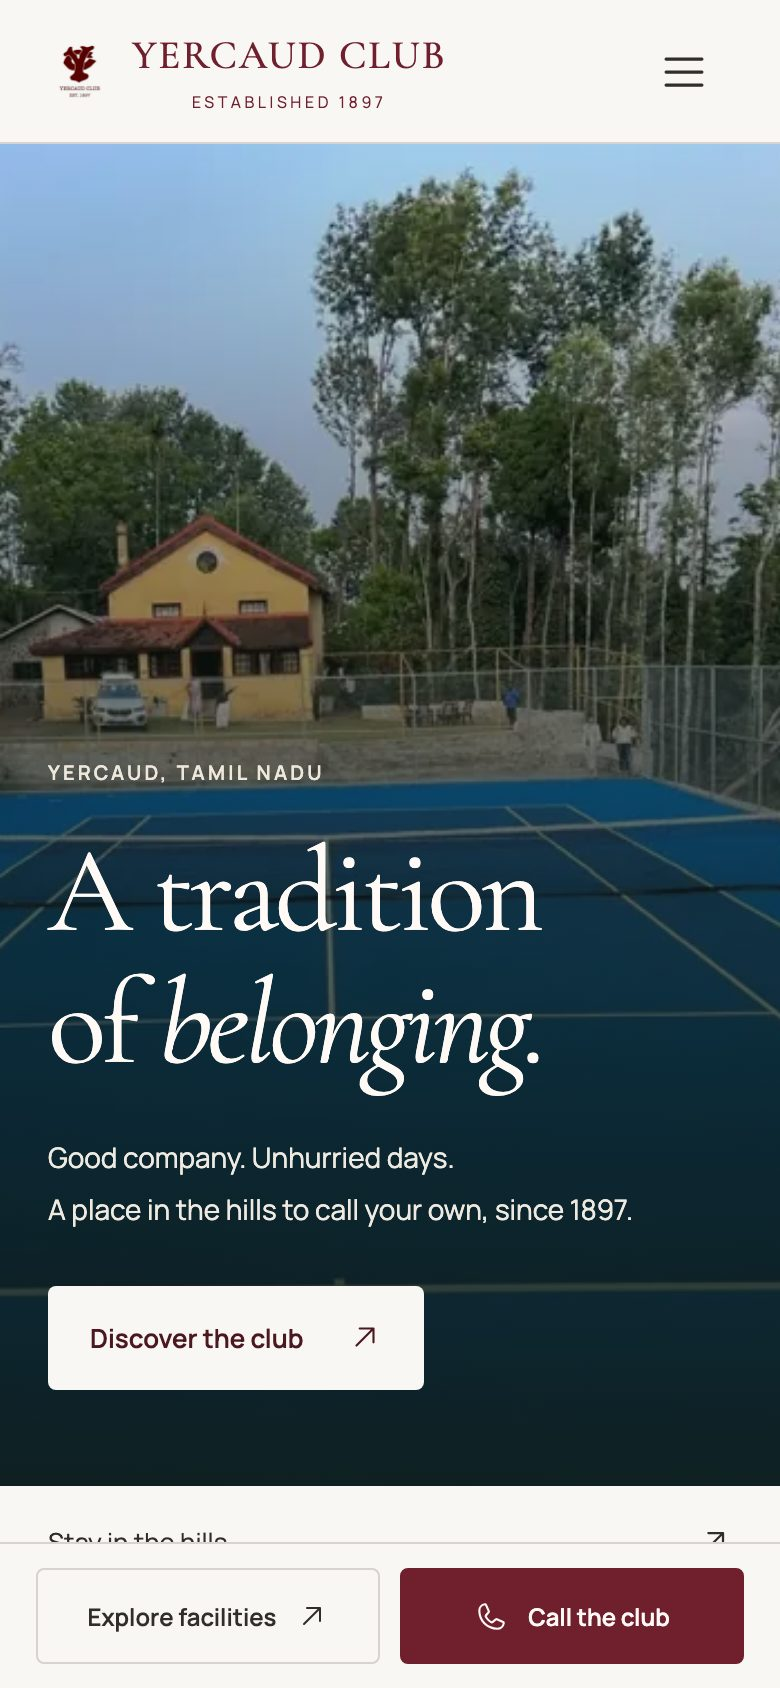
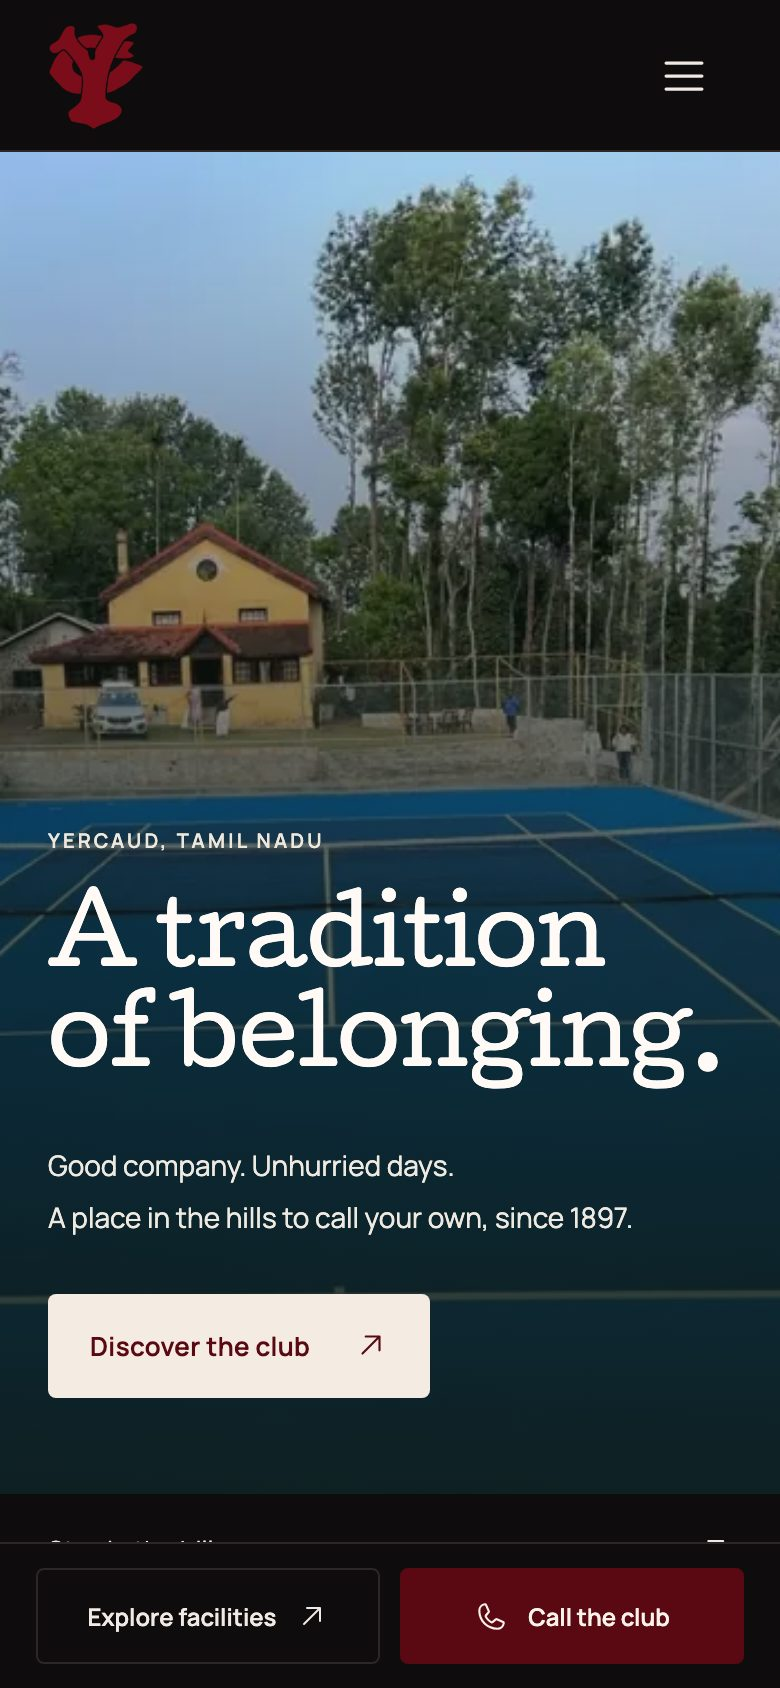
Yercaud Club case study: live domain, red-on-black palette, Cutive type, client review rounds

diff --git a/data/websites.ts b/data/websites.ts
@@ -28,39 +28,40 @@ export const websites: Website[] = [
     kind: 'Heritage members’ club',
     location: 'Yercaud, Tamil Nadu',
     year: '2026',
-    url: 'https://thecozycod3r.github.io/yercaud-club/',
-    urlLabel: 'thecozycod3r.github.io/yercaud-club',
+    url: 'https://yercaudclub.com/',
+    urlLabel: 'yercaudclub.com',
     role: 'Design, build and research',
     summary:
-      'A hill club founded in 1897, with no website of its own. Rebuilt from a tariff card, a souvenir booklet and the club’s own photographs into a four-page site for members, affiliates and guests.',
+      'A hill club founded in 1897, with no website of its own. Rebuilt from a tariff card, a souvenir booklet and the club’s own photographs into a four-page site for members, affiliates and guests, now live on the club’s own domain.',
     brief:
-      'The club had a printed tariff card, a burgundy crest and a handful of photographs. Members of 18 affiliated clubs had no way to check visiting rates, and guests had no way to learn what the club actually offers. The site had to feel as old as the institution without feeling dusty.',
-    color: '#A33A4C',
-    bg: 'rgba(163,58,76,0.07)',
+      'The club had a printed tariff card, a dark red YC crest and a stack of WhatsApp photographs. Members of 18 affiliated clubs had no way to check visiting rates, and guests had no way to learn what the club actually offers. The site had to feel as old as the institution without feeling dusty.',
+    color: '#7A0D19',
+    bg: 'rgba(122,13,25,0.07)',
     palette: [
-      { name: 'Paper', hex: '#F8F7F4' },
-      { name: 'Ink', hex: '#302D2A' },
-      { name: 'Club burgundy', hex: '#701F2D' },
-      { name: 'Tint', hex: '#E9DADB' },
-      { name: 'Rule', hex: '#D8D3CC' },
+      { name: 'Night', hex: '#0E0C0C' },
+      { name: 'Panel', hex: '#171414' },
+      { name: 'Yercaud red', hex: '#5A0812' },
+      { name: 'Cream', hex: '#ECDCC8' },
+      { name: 'Rule', hex: '#2C2627' },
     ],
     type: [
-      { role: 'Display', face: 'Cormorant Garamond', why: 'A Garamond revival with the proportions of 19th-century print — the same era as the club. Italic used for one word per headline, the way an engraved invitation would.' },
-      { role: 'Text', face: 'Manrope', why: 'A quiet geometric sans so rates, timings and tables stay legible at small sizes. The contrast keeps the serif feeling ceremonial rather than everywhere.' },
+      { role: 'Display', face: 'Cutive', why: 'The crest’s own lettering is a typewriter slab serif. Cutive is the closest open face, so every headline reads in the same voice as the club’s logo and stationery.' },
+      { role: 'Text', face: 'Manrope', why: 'A quiet geometric sans so rates, timings and tables stay legible at small sizes. The typewriter face is kept to headings, where it can carry character without tiring the eye.' },
     ],
     language: [
-      'Warm paper background and a single accent taken straight from the crest — burgundy appears only where you can act.',
-      'Thin hairline rules and square-cornered buttons, borrowed from printed club stationery rather than app UI.',
-      'Photography runs edge to edge; text sits on it only where the image is quiet.',
-      'Uppercase, widely tracked eyebrows (“YERCAUD, TAMIL NADU”) do the job a letterhead would.',
+      'Near-black from header to footer, chosen by the club after seeing light, stone and dark versions side by side.',
+      'Yercaud red, sampled from the crest, appears only on things you can press: buttons, the selected tab, the member/guest switch.',
+      'The crest stands alone in the header as the home button, with no box or wordmark competing with it.',
+      'Photography runs edge to edge; every facility and chamber is shown with the club’s own pictures, not stock.',
     ],
     decisions: [
-      { title: 'Every number comes from the club', body: 'Rates, the 18 affiliations and the founding year are taken from the 2026 tariff card. Where public sources disagreed (an old phone number on an affiliate’s site), the card won and the conflict was noted rather than guessed.' },
+      { title: 'Every number comes from the club', body: 'Rates, the 18 affiliations and the founding year are taken from the 2026 tariff card. Where public sources disagreed (an old phone number, a street name the club no longer uses), the club’s word won.' },
+      { title: 'Designed with the club, round by round', body: 'Three directions went to the club: the original cream, a stone-toned version in the crest’s typeface, and red on black. Their feedback — cleaner header, less red at the bottom, keep the typewriter headings — shaped the final site.' },
       { title: 'A member/guest switch instead of two tables', body: 'Chamber tariffs differ for members and guests. One toggle swaps every price on the page, so nobody has to read across a dense grid to find their row.' },
       { title: 'Real pages, not a single-page app', body: 'Each page is prerendered to static HTML at build time, so it loads instantly on hill-station mobile data and every section is indexable by search engines.' },
       { title: 'History, written from the souvenir', body: 'The /history page was written from the club’s own souvenir booklet, so the story is theirs, not a template’s.' },
     ],
-    stack: ['React', 'Vite', 'Static prerender', 'WebP pipeline', 'GitHub Pages'],
+    stack: ['React', 'Vite', 'Static prerender', 'WebP pipeline', 'GitHub Pages', 'Custom domain'],
   },
   {
     slug: 'nandipura',
